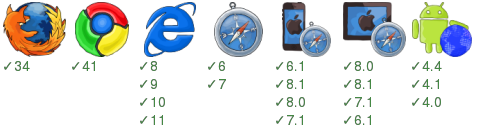
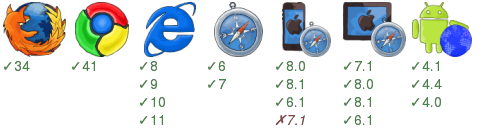
Auto commit smoke test results for 5a35f9d74f32ebd5127f5bd61a0ac4bac4eb2005 [ci skip]

diff --git a/examples/00hello/badge.html b/examples/00hello/badge.html
@@ -29,20 +29,20 @@ div{vertical-align:top;overflow:hidden;display:inline-block;width:92px;padding:4
 <p>&#x2713;7</p>
 </div><div>
 <img src="/home/travis/build/zordius/fluxex/examples/00hello/node_modules/badge-render/browser-badge/static/iphone.png" />
-<p>&#x2713;6.1</p>
-<p>&#x2713;8.1</p>
 <p>&#x2713;8.0</p>
-<p>&#x2713;7.1</p>
+<p>&#x2713;8.1</p>
+<p>&#x2713;6.1</p>
+<i>&#x2717;7.1</i>
 </div><div>
 <img src="/home/travis/build/zordius/fluxex/examples/00hello/node_modules/badge-render/browser-badge/static/ipad.png" />
+<p>&#x2713;7.1</p>
 <p>&#x2713;8.0</p>
 <p>&#x2713;8.1</p>
-<p>&#x2713;7.1</p>
 <p>&#x2713;6.1</p>
 </div><div>
 <img src="/home/travis/build/zordius/fluxex/examples/00hello/node_modules/badge-render/browser-badge/static/android-browser.png" />
-<p>&#x2713;4.4</p>
 <p>&#x2713;4.1</p>
+<p>&#x2713;4.4</p>
 <p>&#x2713;4.0</p>
 </div></body>
 </html>
